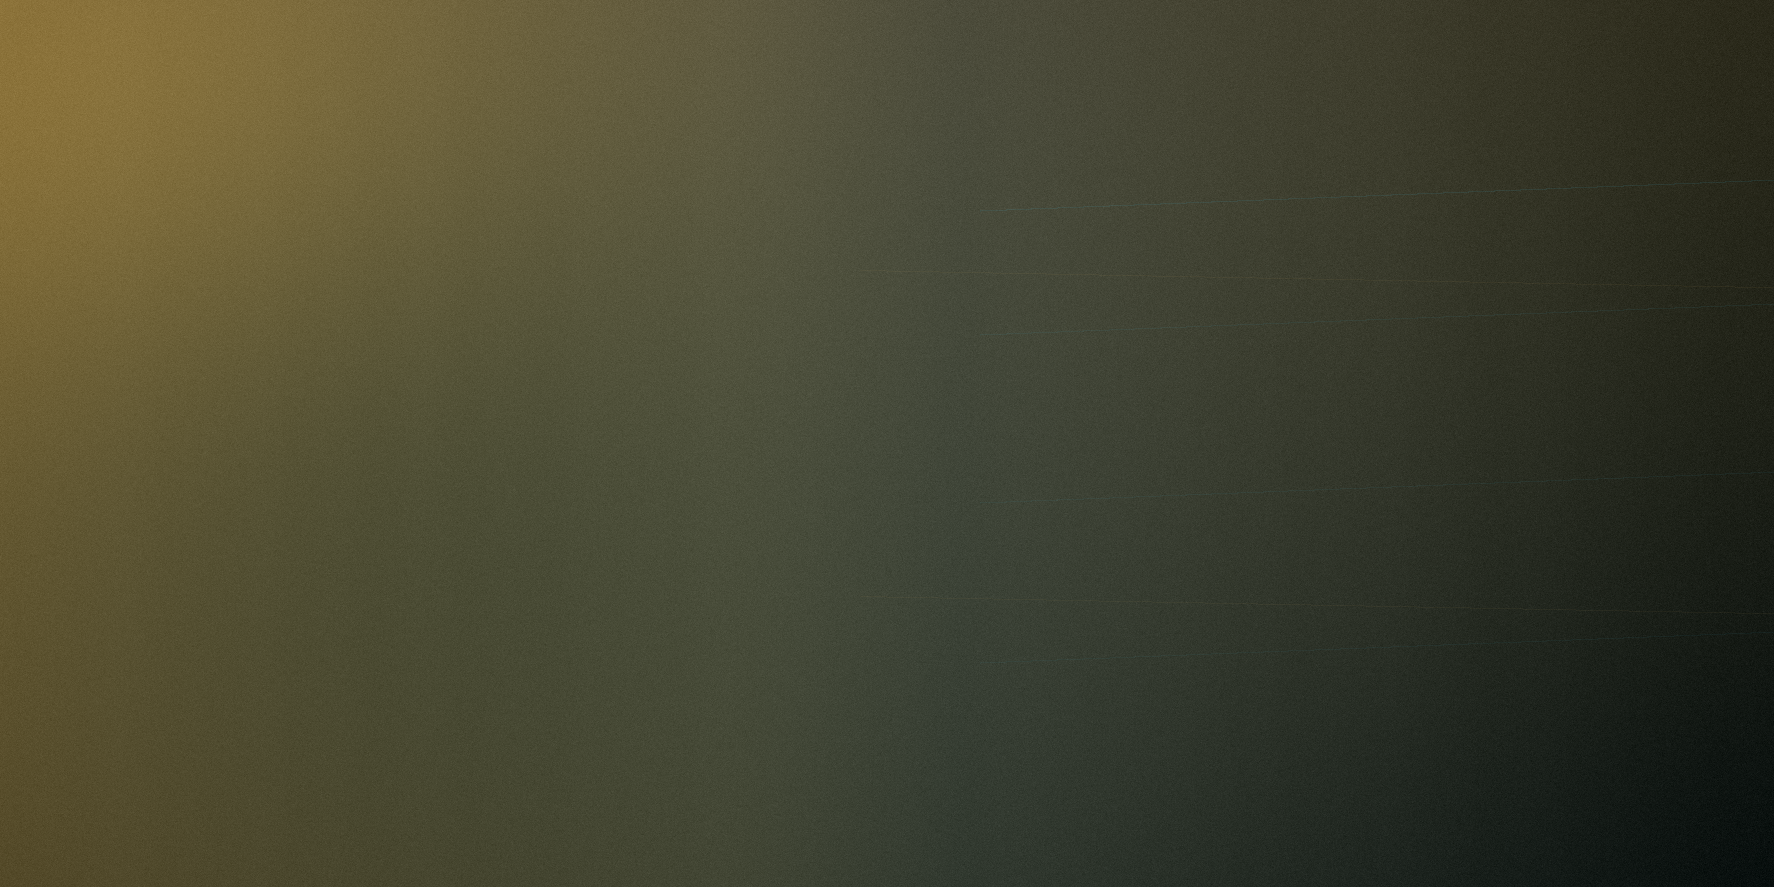
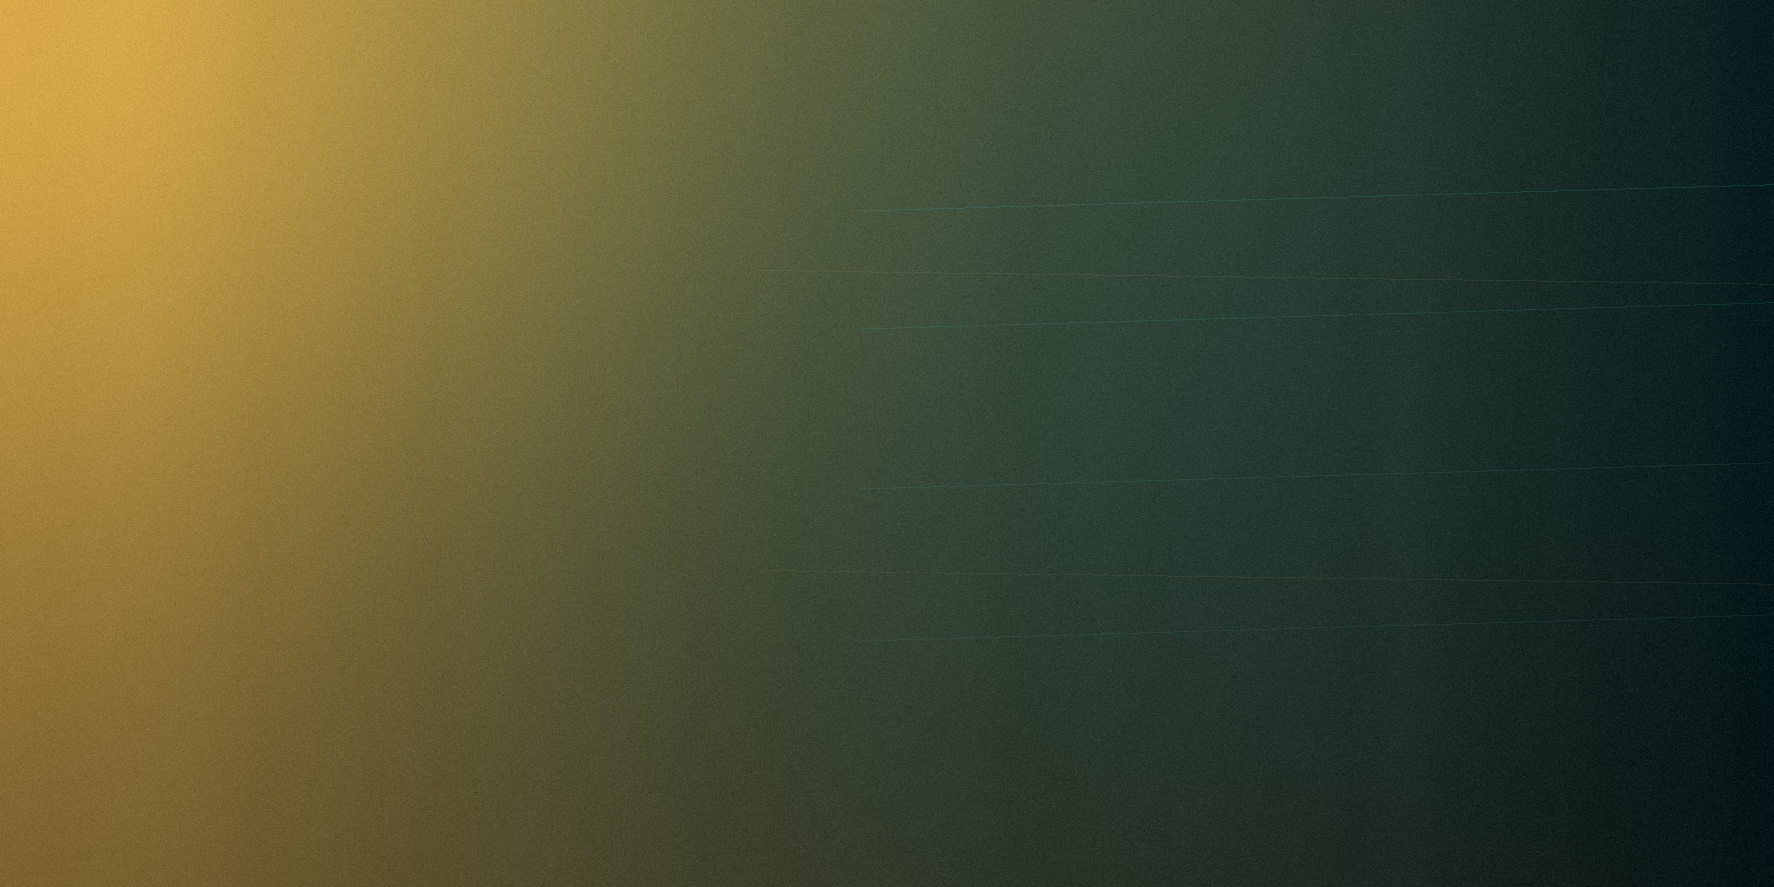
Make hero background visible

diff --git a/styles.css b/styles.css
@@ -155,8 +155,8 @@ img {
   inset: 0;
   z-index: 2;
   background:
-    linear-gradient(90deg, rgba(9, 35, 38, 0.9) 0%, rgba(9, 35, 38, 0.56) 42%, rgba(9, 35, 38, 0.06) 78%),
-    linear-gradient(180deg, rgba(9, 35, 38, 0.18), rgba(9, 35, 38, 0.02) 62%, var(--paper) 100%);
+    linear-gradient(90deg, rgba(9, 35, 38, 0.68) 0%, rgba(9, 35, 38, 0.28) 45%, rgba(9, 35, 38, 0) 78%),
+    linear-gradient(180deg, rgba(9, 35, 38, 0.08), rgba(9, 35, 38, 0) 62%, var(--paper) 100%);
 }
 
 .hero-content {
@@ -166,6 +166,7 @@ img {
   margin: 0 auto;
   padding: clamp(132px, 17vh, 190px) clamp(20px, 4vw, 56px) clamp(44px, 7vh, 84px);
   color: var(--white);
+  text-shadow: 0 2px 22px rgba(2, 16, 18, 0.42);
 }
 
 .eyebrow {
@@ -694,8 +695,8 @@ section[id] {
 
   .hero-scrim {
     background:
-      linear-gradient(90deg, rgba(9, 35, 38, 0.92) 0%, rgba(9, 35, 38, 0.76) 62%, rgba(9, 35, 38, 0.34) 100%),
-      linear-gradient(180deg, rgba(9, 35, 38, 0.2), rgba(9, 35, 38, 0.1) 66%, var(--paper) 100%);
+      linear-gradient(90deg, rgba(9, 35, 38, 0.76) 0%, rgba(9, 35, 38, 0.52) 62%, rgba(9, 35, 38, 0.18) 100%),
+      linear-gradient(180deg, rgba(9, 35, 38, 0.1), rgba(9, 35, 38, 0.04) 66%, var(--paper) 100%);
   }
 
   .proof-strip,
@@ -758,8 +759,8 @@ section[id] {
 
   .hero-scrim {
     background:
-      linear-gradient(90deg, rgba(9, 35, 38, 0.9), rgba(9, 35, 38, 0.62)),
-      linear-gradient(180deg, rgba(9, 35, 38, 0.16), rgba(9, 35, 38, 0.02) 66%, var(--paper) 100%);
+      linear-gradient(90deg, rgba(9, 35, 38, 0.78), rgba(9, 35, 38, 0.42)),
+      linear-gradient(180deg, rgba(9, 35, 38, 0.08), rgba(9, 35, 38, 0) 66%, var(--paper) 100%);
   }
 
   .hero-copy {

diff --git a/index.html b/index.html
@@ -20,7 +20,7 @@
     <meta property="og:image" content="https://charm.band/assets/charm-band-device.png" />
     <link rel="preload" as="image" href="assets/charm-hero-background.png" />
     <link rel="preload" as="image" href="assets/charm-band-device.png" />
-    <link rel="stylesheet" href="styles.css?v=hero-bg-visible-1" />
+    <link rel="stylesheet" href="styles.css?v=hero-bg-visible-2" />
   </head>
   <body>
     <header class="site-header" data-site-header>